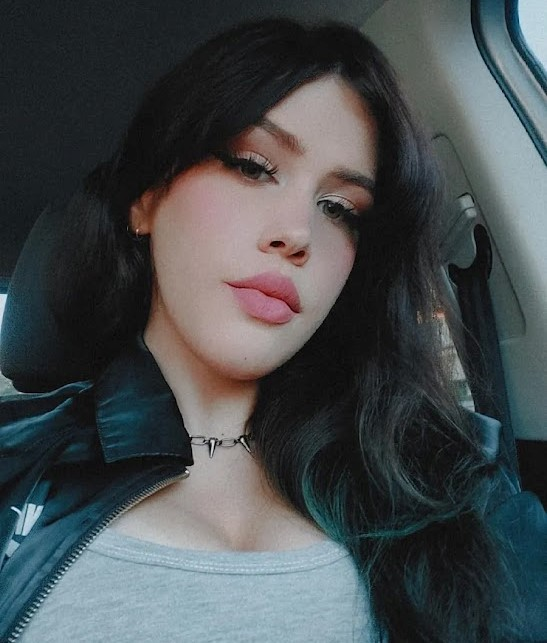
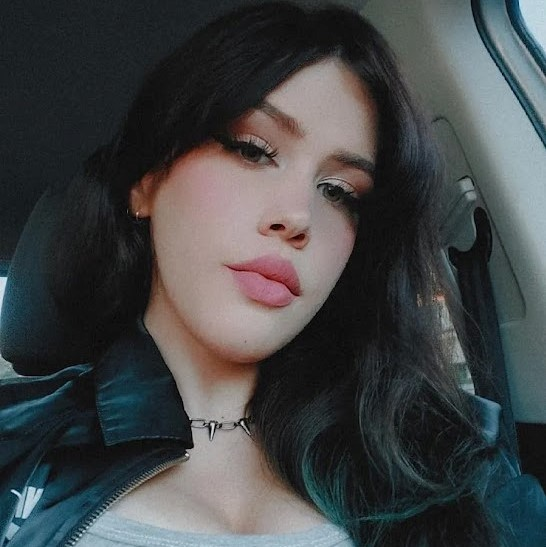
social media links

diff --git a/src/App.js b/src/App.js
@@ -1,60 +1,20 @@
 import React from "react";
-import minhaFoto from "./imgs/me.jpg";
-import { BsLinkedin, BsGithub, BsInstagram } from "react-icons/bs";
-import { useGlitch } from "react-powerglitch";
-import {
-  SiJavascript,
-  SiHtml5,
-  SiCss3,
-  SiReact,
-  SiBootstrap,
-  SiSass,
-  SiTailwindcss,
-} from "react-icons/si";
 import "./App.css";
 import Navbar from "./components/navbar/Navbar";
+import Home from "./components/home/Home";
+
 
 const App = () => {
-  const glitch = useGlitch();
 
   return (
     <div className="App">
       {/* Navbar */}
       <Navbar />
       {/* Content */}
-      <div className="site-content">
-        <div className="content">
-          <div className="left-section">
-            <h1 className="title">FRONT-END REACT DEVELOPER</h1>
-
-            <p className="subtitle">
-              Hi! 👋🏻 I’m Raquel Lins. A creative and passionate Front-end
-              Developer based<br></br> in Rio de Janeiro, Brazil.
-            </p>
-
-            <div className="social-icons">
-              <BsLinkedin size={50} className="icon" />
-              <BsGithub size={50} className="icon" />
-              <BsInstagram size={50} className="icon" />
-            </div>
-
-            <div className="tech-stack">
-              <span className="section-title">Tech Stack</span>
-              <SiHtml5 className="skill" />
-              <SiCss3 className="skill" />
-              <SiJavascript className="skill" />
-              <SiReact className="skill" />
-              <SiBootstrap className="skill" />
-              <SiSass className="skill" />
-              <SiTailwindcss className="skill" />
-            </div>
-          </div>
-
-          <div className="right-section">
-            <img src={minhaFoto} alt="Minha Foto" ref={glitch.ref} />
-          </div>
-        </div>
-      </div>
+      <main className="main">
+        <Home/>
+      </main>
+     
     </div>
   );
 };

diff --git a/src/components/home/Home.js b/src/components/home/Home.js
@@ -1,0 +1,56 @@
+import React from 'react';
+import {
+    SiJavascript,
+    SiHtml5,
+    SiCss3,
+    SiReact,
+    SiBootstrap,
+    SiSass,
+    SiTailwindcss,
+  } from "react-icons/si";
+  import minhaFoto from "../../imgs/me.jpg";
+  import { useGlitch } from "react-powerglitch";
+  import Social from "./Social";
+  import "./Home.css";
+
+
+
+function Home () {
+    const glitch = useGlitch();
+
+return (
+<div className="site-content">
+<div className="content">
+  <div className="left-section">
+    <h1 className="title">FRONT-END REACT DEVELOPER</h1>
+     
+    <p className="subtitle">
+      Hi! 👋🏻 I’m Raquel Lins. A creative and passionate Front-end
+      Developer based<br></br> in Rio de Janeiro, Brazil.
+    </p>
+    <Social/>
+   
+    <div className="tech-stack">
+      <span className="section-title">Tech Stack</span>
+      <SiHtml5 className="skill" />
+      <SiCss3 className="skill" />
+      <SiJavascript className="skill" />
+      <SiReact className="skill" />
+      <SiBootstrap className="skill" />
+      <SiSass className="skill" />
+      <SiTailwindcss className="skill" />
+    </div>
+  </div>
+
+  <div className="right-section">
+    <div className='minhafoto'>
+    <img src={minhaFoto} alt="Minha Foto" ref={glitch.ref}/></div>
+  </div>
+</div>
+</div>
+
+);
+}
+
+export default Home;
+

diff --git a/public/index.html b/public/index.html
@@ -5,12 +5,17 @@
   <meta http-equiv="X-UA-Compatible" content="IE=edge">
   <meta name="viewport" content="width=device-width, initial-scale=1.0">
   <title>Meu portifólio</title> 
+  <!----Font---->
   <link rel="preconnect" href="https://fonts.googleapis.com">
+   <link rel="preconnect" href="https://fonts.gstatic.com" crossorigin>
+  <link href="https://fonts.googleapis.com/css2?family=Inter:wght@100;200;300;400;500;600;700;800;900&family=Varela+Round&display=swap" rel="stylesheet">
+  <!---ICON--->
   <link rel="shortcut icon" href="favicon.ico" type="image/x-icon">
   <link rel="icon" href="./favicon.ico" type="image/x-icon">
+  <!---UNICONS---->
+  <link rel="stylesheet" href="https://unicons.iconscout.com/release/v4.0.8/css/line.css">
 
-  <link rel="preconnect" href="https://fonts.gstatic.com" crossorigin>
-  <link href="https://fonts.googleapis.com/css2?family=Inter:wght@100;200;300;400;500;600;700;800;900&family=Varela+Round&display=swap" rel="stylesheet">
+ 
 </head>
 <body>
   <div id="root"></div>

diff --git a/src/components/home/Social.js b/src/components/home/Social.js
@@ -1,0 +1,16 @@
+import React from 'react';
+import { BsLinkedin, BsGithub, BsInstagram } from "react-icons/bs";
+
+
+function Social (){
+    return(
+        <div className="social-icons">
+       <a href='https://www.linkedin.com/in/raquelldm/'  target='_blank'> <BsLinkedin size={50} className="icon" /></a>
+       <a href='https://github.com/kelldm'  target='_blank'><BsGithub size={50} className="icon" /> </a> 
+       <a href='https://www.instagram.com/kelldm_/' target='_blank'> <BsInstagram size={50} className="icon" /></a>
+      </div>
+  
+    );
+}
+
+export default Social;

diff --git a/src/components/navbar/Navbar.js b/src/components/navbar/Navbar.js
@@ -9,10 +9,10 @@ function Navbar() {
         <img src={logo} alt="Logo" className="logo" />
       </div>
       <ul className="menu">
-        <li>Home</li>
-        <li>About</li>
-        <li>Projects</li>
-        <li>Contact</li>
+        <li><a href="#home">Home</a></li>
+        <li><a href="#about">About</a></li>
+        <li><a href="#skills">Skills</a></li>
+        <li><a href="#contact">Contact</a></li>
       </ul>
     </nav>
   );

diff --git a/src/components/navbar/Navbar.css b/src/components/navbar/Navbar.css
@@ -15,5 +15,14 @@
     font-weight: 600;
     background-color: #ffffff;
     color: #000000;
+    
+  }
+
+
+
+  .navbar a{
+    text-decoration: none;
+   color: #000000;
+   cursor: pointer;
   }
   

diff --git a/src/components/home/Home.css b/src/components/home/Home.css
@@ -1,0 +1,9 @@
+.minhafoto{
+     border: 3px;
+       border-color: black;
+}
+
+      .minhafoto img {
+       border-radius: 100%;
+      
+      }
